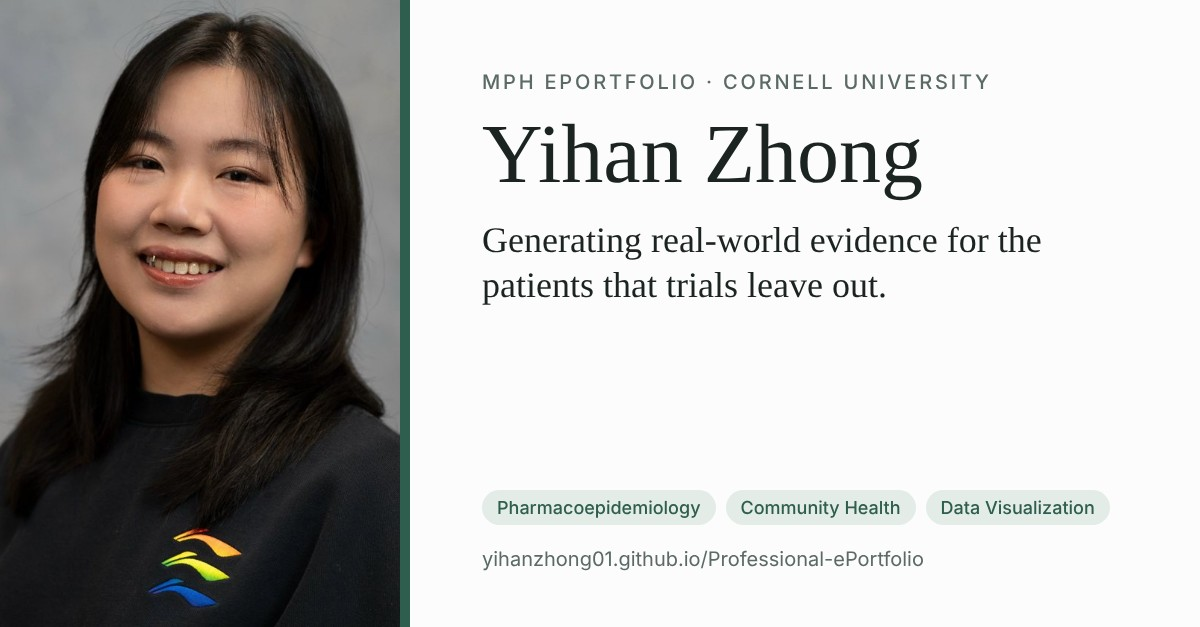
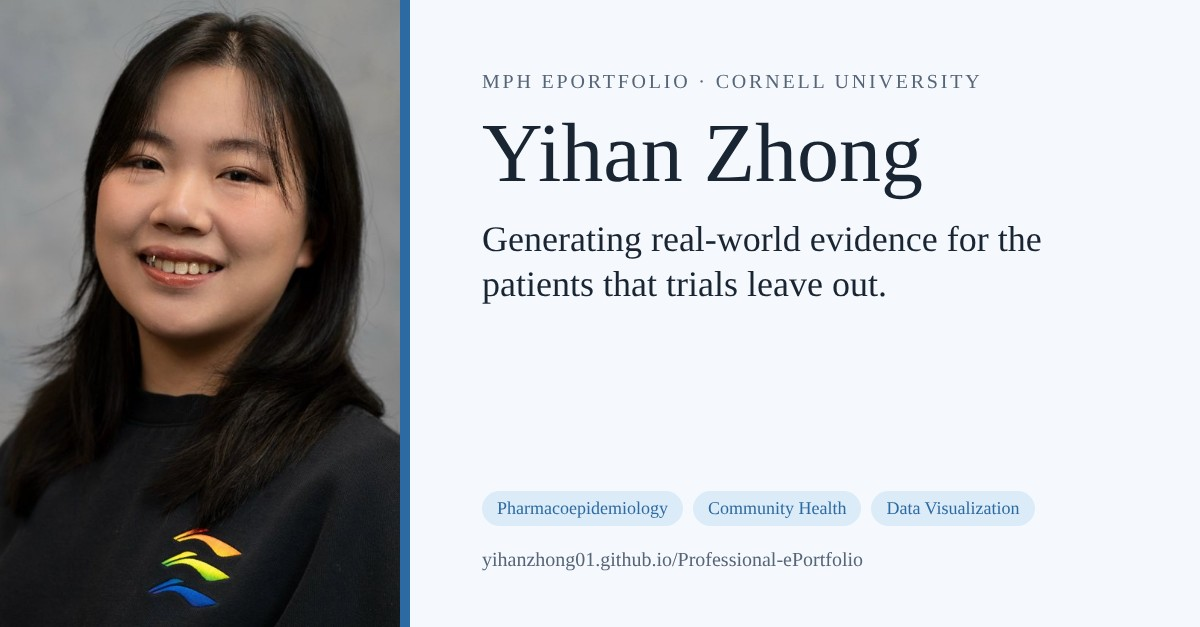
Switch to Times New Roman and a light blue theme
Claude-Session: https://claude.ai/code/session_01QkMcJG51DZ8S8KjwPKo4Sx

diff --git a/index.html b/index.html
@@ -13,28 +13,25 @@
 <meta property="og:type" content="website">
 <meta name="twitter:card" content="summary_large_image">
 <title>Yihan Zhong Portfolio</title>
-<link rel="preconnect" href="https://fonts.googleapis.com">
-<link rel="preconnect" href="https://fonts.gstatic.com" crossorigin>
-<link rel="stylesheet" href="https://fonts.googleapis.com/css2?family=Newsreader:opsz,wght@6..72,400;6..72,500;6..72,600&family=Inter:wght@400;500;600&display=swap">
 <style>
 /* Layout: one quiet reading column, sticky top nav, hero with portrait beside the thesis line. */
 :root{
-  --bg:#fbfcfb; --surface:#f1f4f2; --fg:#1c2421; --muted:#5b6a64; --line:#dde4e0;
-  --accent:#2e5e4e; --accent-soft:#e3ece7;
-  --display:"Newsreader", Georgia, "Times New Roman", serif;
-  --body:"Inter", system-ui, -apple-system, "Segoe UI", sans-serif;
+  --bg:#f5f9fd; --surface:#e9f2fa; --fg:#1a2533; --muted:#566578; --line:#d5e2ef;
+  --accent:#2c6aa3; --accent-soft:#dcebf8;
+  --display:"Times New Roman", Times, serif;
+  --body:"Times New Roman", Times, serif;
 }
 @media (prefers-color-scheme:dark){:root:not([data-theme="light"]){
-  --bg:#141917; --surface:#1c2320; --fg:#e7ece9; --muted:#9aa8a2; --line:#2c3632;
-  --accent:#8fc2ad; --accent-soft:#22302a; color-scheme:dark}}
+  --bg:#111822; --surface:#18222f; --fg:#e6edf5; --muted:#9aabbf; --line:#283646;
+  --accent:#8cc0ec; --accent-soft:#1d2e42; color-scheme:dark}}
 :root[data-theme="dark"]{
-  --bg:#141917; --surface:#1c2320; --fg:#e7ece9; --muted:#9aa8a2; --line:#2c3632;
-  --accent:#8fc2ad; --accent-soft:#22302a; color-scheme:dark}
+  --bg:#111822; --surface:#18222f; --fg:#e6edf5; --muted:#9aabbf; --line:#283646;
+  --accent:#8cc0ec; --accent-soft:#1d2e42; color-scheme:dark}
 
 *{box-sizing:border-box}
 html{scroll-behavior:smooth}
 @media (prefers-reduced-motion:reduce){html{scroll-behavior:auto}}
-body{background:var(--bg);color:var(--fg);font-family:var(--body);font-size:16px;line-height:1.65}
+body{background:var(--bg);color:var(--fg);font-family:var(--body);font-size:18px;line-height:1.6}
 body::before{content:"";position:fixed;inset:0 0 auto;height:env(safe-area-inset-top,0px);z-index:10;background:var(--bg)}
 .wrap{max-width:760px;margin:0 auto;padding-left:max(16px,env(safe-area-inset-left,0px));padding-right:max(16px,env(safe-area-inset-right,0px))}
 a{color:var(--accent);text-underline-offset:3px}
@@ -55,7 +52,7 @@ section{padding-block:48px 72px}
 .contact{margin-top:40px}
 .contact .mail{font-family:var(--display);font-size:1.3rem;user-select:all}
 nav ul a[aria-current="page"]{color:var(--fg);text-decoration:underline;text-decoration-color:var(--accent);text-decoration-thickness:2px;text-underline-offset:8px}
-.eyebrow{font-size:.75rem;letter-spacing:.12em;text-transform:uppercase;color:var(--muted);font-weight:500;margin:0 0 10px}
+.eyebrow{font-size:.82rem;letter-spacing:.12em;text-transform:uppercase;color:var(--muted);font-weight:500;margin:0 0 10px}
 h2{font-size:2rem;margin-bottom:24px}
 
 /* hero */
@@ -66,7 +63,7 @@ h2{font-size:2rem;margin-bottom:24px}
 .hero .role{color:var(--muted);margin:0 0 18px}
 .hero .thesis{font-family:var(--display);font-size:1.45rem;line-height:1.35;margin:0 0 18px}
 .tags{display:flex;flex-wrap:wrap;gap:8px;list-style:none;margin:0;padding:0}
-.tags li{font-size:.78rem;padding:3px 10px;border-radius:999px;background:var(--accent-soft);color:var(--accent);font-weight:500}
+.tags li{font-size:.86rem;padding:3px 10px;border-radius:999px;background:var(--accent-soft);color:var(--accent);font-weight:500}
 
 .narrative p{margin:0 0 16px;max-width:65ch}
 .narrative p:last-child{margin-bottom:0}
@@ -81,7 +78,7 @@ h2{font-size:2rem;margin-bottom:24px}
 .project h3{font-size:1.35rem;margin-bottom:4px}
 .project .src{color:var(--muted);font-size:.88rem;margin:0 0 12px}
 .project p{margin:0 0 12px;max-width:65ch}
-.project .k{font-weight:600}
+.project .k,.deliv .k{font-weight:700}
 .project .tags{margin-top:14px}
 .note{font-size:.85rem;color:var(--muted);font-style:italic}
 figure{margin:16px 0 0}
